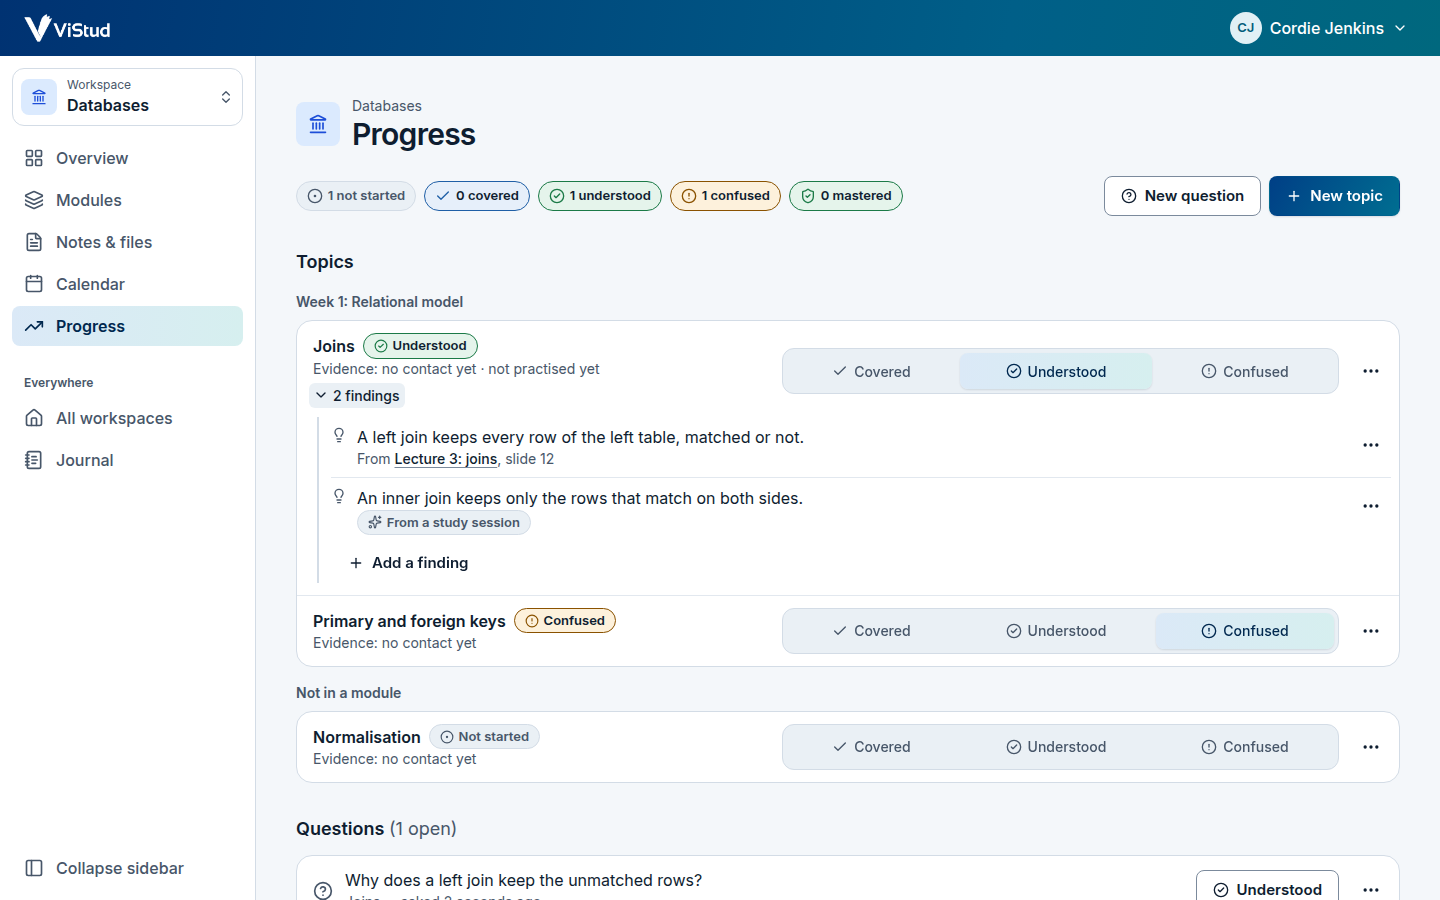
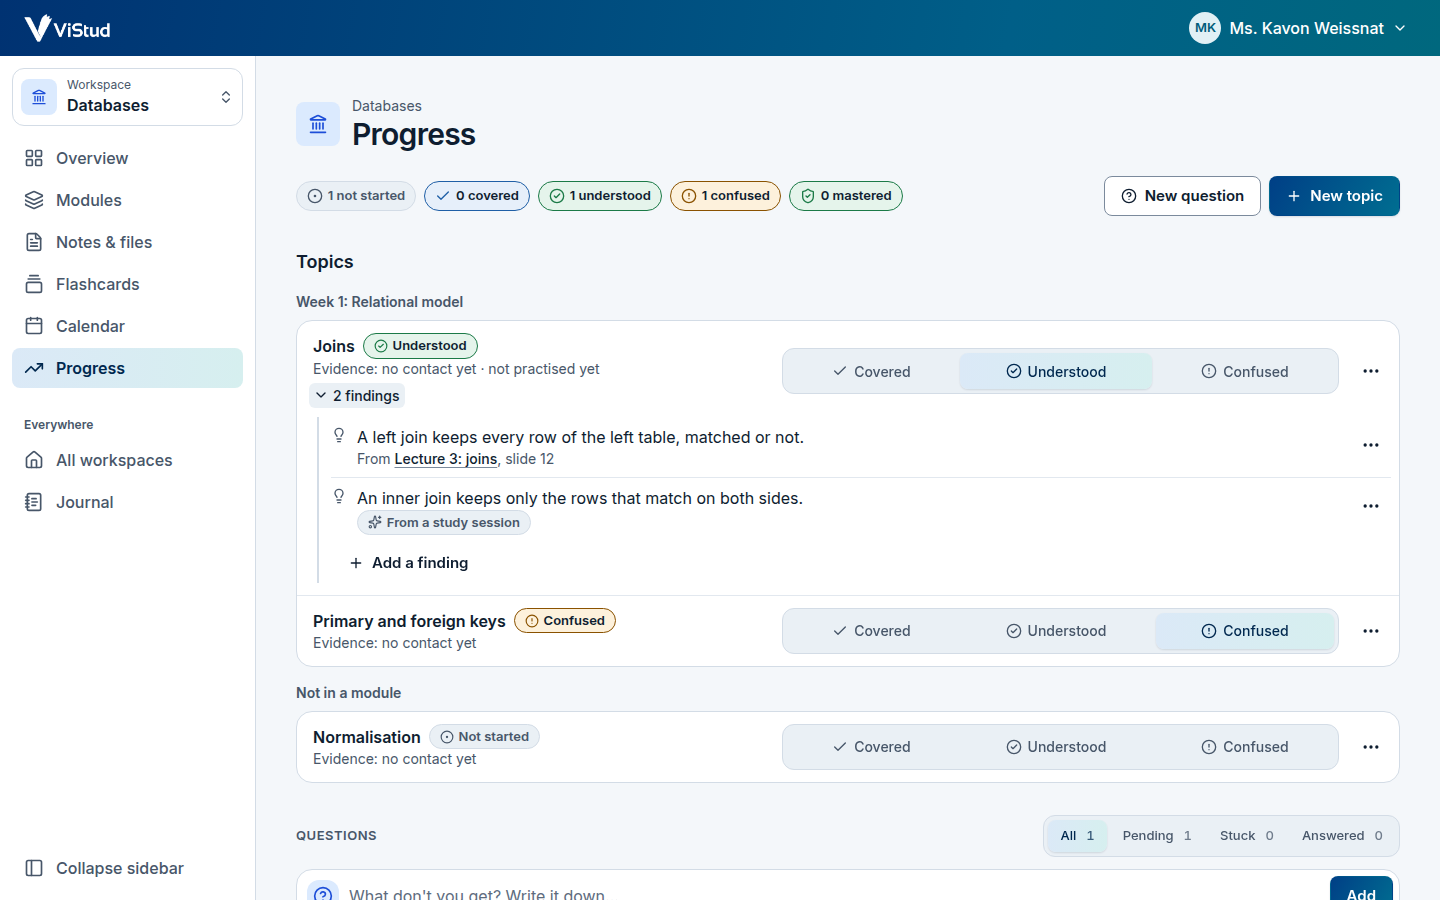
Preview the questions board and its side panel
Adds a preview of a session's questions (pending, stuck, answered) and
the side panel on a desktop and a phone, and refreshes the Progress and
login previews.

Claude-Session: https://claude.ai/code/session_018wbzDjzKEyrRKPqH7UpqsC

diff --git a/tests/Browser/previews.spec.js b/tests/Browser/previews.spec.js
@@ -657,6 +657,46 @@ test('session: the clock, what happened, the end dialog, and starting one', asyn
     await page.screenshot({ path: out('session-desktop-vistud-light-start') });
 });
 
+test('questions: the board in a session and the side panel', async ({ page }) => {
+    const student = makeStudentWithSession();
+    await page.setViewportSize(sizes.desktop);
+    await openStudentHome(page, student.email);
+    await page.goto(`/workspaces/${student.workspace}/sessions/${student.session}`);
+    await page.getByRole('heading', { level: 1, name: 'Joins' }).waitFor();
+    await page.waitForLoadState('load');
+    const line = page.getByPlaceholder("What don't you get? Write it down…");
+    const questions = page.getByRole('list', { name: 'Questions' });
+    for (const text of ['Why does a left join keep rows with no match?', 'What is the difference between a key and an index?', 'When would I use a full outer join?']) {
+        await line.fill(text);
+        await line.press('Enter');
+        await questions.getByRole('button', { name: text, exact: true }).waitFor();
+    }
+    await page.getByRole('button', { name: 'Actions for What is the difference between a key and an index?' }).click();
+    await page.locator('.row-menu:not([hidden])').getByRole('button', { name: 'Stuck' }).click();
+    await questions.getByRole('listitem').first().filter({ hasText: 'Stuck' }).waitFor();
+    await page.getByRole('button', { name: 'Actions for Why does a left join keep rows with no match?' }).click();
+    await page.locator('.row-menu:not([hidden])').getByRole('button', { name: 'Answered' }).click();
+    const panel = page.locator('#question-dialog');
+    await panel.getByRole('textbox', { name: /^Answer/ }).fill('A LEFT JOIN keeps every row on the left and fills the columns from the right with NULL where nothing matches.');
+    await page.screenshot({ path: out('questions-desktop-vistud-light-answer') });
+    await panel.getByRole('button', { name: 'Save' }).click();
+    await panel.waitFor({ state: 'hidden' });
+    const board = page.locator('section').filter({ has: questions });
+    for (const [size, viewport] of Object.entries(sizes)) {
+        for (const theme of ['vistud-light', 'vistud-dark']) {
+            await page.setViewportSize(viewport);
+            await useTheme(page, theme);
+            await page.evaluate(() => document.activeElement?.blur());
+            await board.screenshot({ path: out(`questions-${size}-${theme}`) });
+        }
+    }
+    await page.setViewportSize(sizes.mobile);
+    await useTheme(page, 'vistud-light');
+    await questions.getByRole('button', { name: 'What is the difference between a key and an index?', exact: true }).click();
+    await panel.getByLabel('Question', { exact: true }).waitFor();
+    await page.screenshot({ path: out('questions-mobile-vistud-light-panel') });
+});
+
 test('pomodoro: the countdown ring, a break, and the clock choice', async ({ page }) => {
     const student = makeStudentWithPomodoro(118);
     await page.setViewportSize(sizes.desktop);
